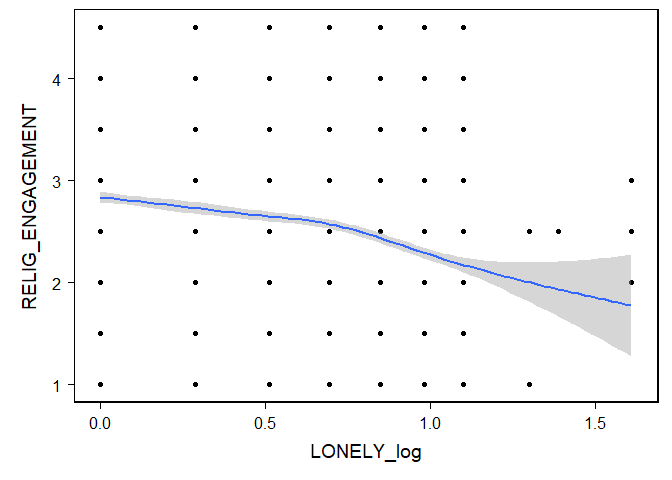
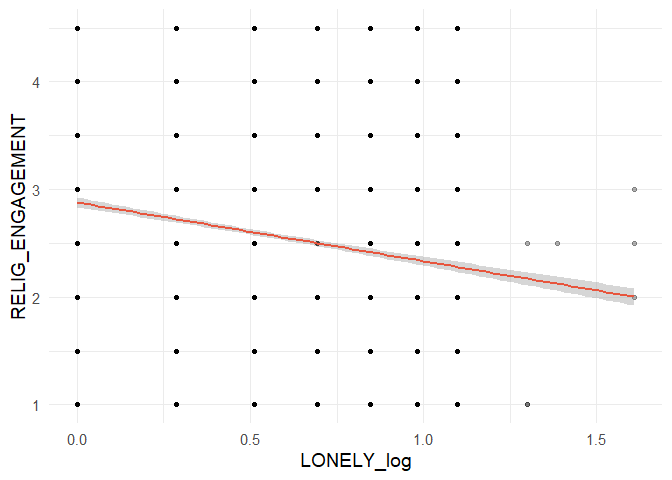
1

diff --git a/MyProject.md b/MyProject.md
@@ -11,7 +11,7 @@ library(dplyr)
 ```
 
     ## 
-    ## Attaching package: 'dplyr'
+    ## 载入程序包：'dplyr'
 
     ## The following objects are masked from 'package:stats':
     ## 
@@ -27,10 +27,10 @@ library(tidyr)
 library(car)
 ```
 
-    ## Loading required package: carData
+    ## 载入需要的程序包：carData
 
     ## 
-    ## Attaching package: 'car'
+    ## 载入程序包：'car'
 
     ## The following object is masked from 'package:dplyr':
     ## 
@@ -42,7 +42,7 @@ library(boot)
 ```
 
     ## 
-    ## Attaching package: 'boot'
+    ## 载入程序包：'boot'
 
     ## The following object is masked from 'package:car':
     ## 
@@ -82,13 +82,13 @@ library(bruceR)
 
     ## 
     ## These packages are dependencies of `bruceR` but not installed:
-    ## - pacman, openxlsx, ggtext, lmtest, vars, phia, MuMIn, GGally
+    ## - pacman, openxlsx, ggtext, see, lmtest, vars, phia, MuMIn, GGally
     ## 
     ## ***** Install all dependencies *****
     ## install.packages("bruceR", dep=TRUE)
 
 ``` r
-load("C:/Users/User/Downloads/ICPSR_38964-V2/ICPSR_38964/DS0001/38964-0001-Data.rda")
+load("C:/Users/zhang/OneDrive/2024-25/PSY329/ICPSR_38964-V2/ICPSR_38964/DS0001/38964-0001-Data.rda")
 dataset <- da38964.0001
 rm(da38964.0001)
 ```
@@ -330,15 +330,23 @@ PROCESS(my_dataset, y = "LONELY_log", x = "RELIG_ENGAGEMENT", mods = c("RACEREC"
 # Visualize the Results
 
 ``` r
-ggplot(cor_data, aes(x = LONELY_log, y = RELIG_ENGAGEMENT)) + geom_point() + geom_smooth() + theme_bruce()
+ggplot(cor_data, aes(x = LONELY_log, y = RELIG_ENGAGEMENT)) + geom_point(alpha = .3) + geom_smooth(method = "lm", se = TRUE, linetype = "solid", color = "#e7553d") +  theme_minimal(base_size = 14)
 ```
 
-    ## `geom_smooth()` using method = 'gam' and formula = 'y ~ s(x, bs = "cs")'
+    ## `geom_smooth()` using formula = 'y ~ x'
 
 ![](MyProject_files/figure-gfm/unnamed-chunk-7-1.png)<!-- -->
 
 ``` r
-ggplot(cor_data, aes(x = LONELY_log, y = RELIG_ENGAGEMENT)) + geom_point() + geom_smooth(method = "lm") + theme_bruce() + facet_wrap(~RACEREC)
+ggplot(data = cor_data, aes(x = LONELY_log, y = RELIG_ENGAGEMENT)) +
+  geom_point(alpha = .3) +
+  geom_smooth(method = "lm", se = TRUE, linetype = "solid", color = "#e7553d") +
+  facet_wrap(~RACEREC) +
+  labs(title = "Correlation between Religious Engagement and Loneliness",
+       subtitle = "Faceted by Race/Ethnicity",
+       x = "Log-transformed Loneliness", 
+       y = "Religious Engagement") +
+  theme_minimal(base_size = 14)
 ```
 
     ## `geom_smooth()` using formula = 'y ~ x'
@@ -598,3 +606,281 @@ PROCESS(my_dataset, y = "LONELY_sqrt", x = "RELIG_ENGAGEMENT", mods = c("EDUC"))
     ##  (5) Bachelor's degree                                         -0.030 (0.005) -5.939 <.001 *** [-0.040, -0.020]
     ##  (6) Post-Bachelor's degree (e.g., Masters, Doctorate, MD, JD) -0.035 (0.007) -4.696 <.001 *** [-0.050, -0.020]
     ## ───────────────────────────────────────────────────────────────────────────────────────────────────────────────
+
+``` r
+model_main <- lm(LONELY_log ~ RELIG_ENGAGEMENT + RACEREC, data = my_dataset)
+summary(model_main)
+```
+
+    ## 
+    ## Call:
+    ## lm(formula = LONELY_log ~ RELIG_ENGAGEMENT + RACEREC, data = my_dataset)
+    ## 
+    ## Residuals:
+    ##      Min       1Q   Median       3Q      Max 
+    ## -0.66934 -0.30696  0.06468  0.27180  1.10511 
+    ## 
+    ## Coefficients:
+    ##                                                         Estimate Std. Error
+    ## (Intercept)                                             0.665353   0.010424
+    ## RELIG_ENGAGEMENT                                       -0.052973   0.003535
+    ## RACEREC(02) Non-Hispanic Black                         -0.002111   0.012321
+    ## RACEREC(03) Non-Hispanic American Indian/Alaska Native  0.001598   0.036214
+    ## RACEREC(04) Hispanic                                    0.016091   0.011140
+    ## RACEREC(05) Non-Hispanic Asian or Pacific Islander     -0.017741   0.019103
+    ## RACEREC(06) Other and 2 or more races                   0.056956   0.039112
+    ## RACEREC(98) Don't know                                  0.114225   0.181792
+    ##                                                        t value Pr(>|t|)    
+    ## (Intercept)                                             63.828   <2e-16 ***
+    ## RELIG_ENGAGEMENT                                       -14.986   <2e-16 ***
+    ## RACEREC(02) Non-Hispanic Black                          -0.171    0.864    
+    ## RACEREC(03) Non-Hispanic American Indian/Alaska Native   0.044    0.965    
+    ## RACEREC(04) Hispanic                                     1.445    0.149    
+    ## RACEREC(05) Non-Hispanic Asian or Pacific Islander      -0.929    0.353    
+    ## RACEREC(06) Other and 2 or more races                    1.456    0.145    
+    ## RACEREC(98) Don't know                                   0.628    0.530    
+    ## ---
+    ## Signif. codes:  0 '***' 0.001 '**' 0.01 '*' 0.05 '.' 0.1 ' ' 1
+    ## 
+    ## Residual standard error: 0.3634 on 7636 degrees of freedom
+    ## Multiple R-squared:  0.02969,    Adjusted R-squared:  0.0288 
+    ## F-statistic: 33.38 on 7 and 7636 DF,  p-value: < 2.2e-16
+
+``` r
+model_interaction <- lm(LONELY_log ~ RELIG_ENGAGEMENT * RACEREC, data = my_dataset)
+summary(model_interaction)
+```
+
+    ## 
+    ## Call:
+    ## lm(formula = LONELY_log ~ RELIG_ENGAGEMENT * RACEREC, data = my_dataset)
+    ## 
+    ## Residuals:
+    ##     Min      1Q  Median      3Q     Max 
+    ## -0.7426 -0.3010  0.0614  0.2716  1.1043 
+    ## 
+    ## Coefficients:
+    ##                                                                          Estimate
+    ## (Intercept)                                                              0.672285
+    ## RELIG_ENGAGEMENT                                                        -0.055715
+    ## RACEREC(02) Non-Hispanic Black                                          -0.030793
+    ## RACEREC(03) Non-Hispanic American Indian/Alaska Native                   0.158484
+    ## RACEREC(04) Hispanic                                                     0.026763
+    ## RACEREC(05) Non-Hispanic Asian or Pacific Islander                      -0.185142
+    ## RACEREC(06) Other and 2 or more races                                    0.170578
+    ## RACEREC(98) Don't know                                                  -0.289741
+    ## RELIG_ENGAGEMENT:RACEREC(02) Non-Hispanic Black                          0.010255
+    ## RELIG_ENGAGEMENT:RACEREC(03) Non-Hispanic American Indian/Alaska Native -0.058392
+    ## RELIG_ENGAGEMENT:RACEREC(04) Hispanic                                   -0.004087
+    ## RELIG_ENGAGEMENT:RACEREC(05) Non-Hispanic Asian or Pacific Islander      0.066283
+    ## RELIG_ENGAGEMENT:RACEREC(06) Other and 2 or more races                  -0.044512
+    ## RELIG_ENGAGEMENT:RACEREC(98) Don't know                                  0.153993
+    ##                                                                         Std. Error
+    ## (Intercept)                                                               0.012463
+    ## RELIG_ENGAGEMENT                                                          0.004451
+    ## RACEREC(02) Non-Hispanic Black                                            0.033491
+    ## RACEREC(03) Non-Hispanic American Indian/Alaska Native                    0.094431
+    ## RACEREC(04) Hispanic                                                      0.027081
+    ## RACEREC(05) Non-Hispanic Asian or Pacific Islander                        0.045425
+    ## RACEREC(06) Other and 2 or more races                                     0.089593
+    ## RACEREC(98) Don't know                                                    0.424047
+    ## RELIG_ENGAGEMENT:RACEREC(02) Non-Hispanic Black                           0.010984
+    ## RELIG_ENGAGEMENT:RACEREC(03) Non-Hispanic American Indian/Alaska Native   0.032587
+    ## RELIG_ENGAGEMENT:RACEREC(04) Hispanic                                     0.009619
+    ## RELIG_ENGAGEMENT:RACEREC(05) Non-Hispanic Asian or Pacific Islander       0.016323
+    ## RELIG_ENGAGEMENT:RACEREC(06) Other and 2 or more races                    0.031611
+    ## RELIG_ENGAGEMENT:RACEREC(98) Don't know                                   0.145990
+    ##                                                                         t value
+    ## (Intercept)                                                              53.941
+    ## RELIG_ENGAGEMENT                                                        -12.517
+    ## RACEREC(02) Non-Hispanic Black                                           -0.919
+    ## RACEREC(03) Non-Hispanic American Indian/Alaska Native                    1.678
+    ## RACEREC(04) Hispanic                                                      0.988
+    ## RACEREC(05) Non-Hispanic Asian or Pacific Islander                       -4.076
+    ## RACEREC(06) Other and 2 or more races                                     1.904
+    ## RACEREC(98) Don't know                                                   -0.683
+    ## RELIG_ENGAGEMENT:RACEREC(02) Non-Hispanic Black                           0.934
+    ## RELIG_ENGAGEMENT:RACEREC(03) Non-Hispanic American Indian/Alaska Native  -1.792
+    ## RELIG_ENGAGEMENT:RACEREC(04) Hispanic                                    -0.425
+    ## RELIG_ENGAGEMENT:RACEREC(05) Non-Hispanic Asian or Pacific Islander       4.061
+    ## RELIG_ENGAGEMENT:RACEREC(06) Other and 2 or more races                   -1.408
+    ## RELIG_ENGAGEMENT:RACEREC(98) Don't know                                   1.055
+    ##                                                                         Pr(>|t|)
+    ## (Intercept)                                                              < 2e-16
+    ## RELIG_ENGAGEMENT                                                         < 2e-16
+    ## RACEREC(02) Non-Hispanic Black                                            0.3579
+    ## RACEREC(03) Non-Hispanic American Indian/Alaska Native                    0.0933
+    ## RACEREC(04) Hispanic                                                      0.3231
+    ## RACEREC(05) Non-Hispanic Asian or Pacific Islander                      4.63e-05
+    ## RACEREC(06) Other and 2 or more races                                     0.0570
+    ## RACEREC(98) Don't know                                                    0.4945
+    ## RELIG_ENGAGEMENT:RACEREC(02) Non-Hispanic Black                           0.3505
+    ## RELIG_ENGAGEMENT:RACEREC(03) Non-Hispanic American Indian/Alaska Native   0.0732
+    ## RELIG_ENGAGEMENT:RACEREC(04) Hispanic                                     0.6709
+    ## RELIG_ENGAGEMENT:RACEREC(05) Non-Hispanic Asian or Pacific Islander     4.94e-05
+    ## RELIG_ENGAGEMENT:RACEREC(06) Other and 2 or more races                    0.1591
+    ## RELIG_ENGAGEMENT:RACEREC(98) Don't know                                   0.2915
+    ##                                                                            
+    ## (Intercept)                                                             ***
+    ## RELIG_ENGAGEMENT                                                        ***
+    ## RACEREC(02) Non-Hispanic Black                                             
+    ## RACEREC(03) Non-Hispanic American Indian/Alaska Native                  .  
+    ## RACEREC(04) Hispanic                                                       
+    ## RACEREC(05) Non-Hispanic Asian or Pacific Islander                      ***
+    ## RACEREC(06) Other and 2 or more races                                   .  
+    ## RACEREC(98) Don't know                                                     
+    ## RELIG_ENGAGEMENT:RACEREC(02) Non-Hispanic Black                            
+    ## RELIG_ENGAGEMENT:RACEREC(03) Non-Hispanic American Indian/Alaska Native .  
+    ## RELIG_ENGAGEMENT:RACEREC(04) Hispanic                                      
+    ## RELIG_ENGAGEMENT:RACEREC(05) Non-Hispanic Asian or Pacific Islander     ***
+    ## RELIG_ENGAGEMENT:RACEREC(06) Other and 2 or more races                     
+    ## RELIG_ENGAGEMENT:RACEREC(98) Don't know                                    
+    ## ---
+    ## Signif. codes:  0 '***' 0.001 '**' 0.01 '*' 0.05 '.' 0.1 ' ' 1
+    ## 
+    ## Residual standard error: 0.363 on 7630 degrees of freedom
+    ## Multiple R-squared:  0.03285,    Adjusted R-squared:  0.0312 
+    ## F-statistic: 19.93 on 13 and 7630 DF,  p-value: < 2.2e-16
+
+``` r
+model_control <- lm(LONELY_log ~ RELIG_ENGAGEMENT * RACEREC + EDUC, data = my_dataset)
+summary(model_control)
+```
+
+    ## 
+    ## Call:
+    ## lm(formula = LONELY_log ~ RELIG_ENGAGEMENT * RACEREC + EDUC, 
+    ##     data = my_dataset)
+    ## 
+    ## Residuals:
+    ##      Min       1Q   Median       3Q      Max 
+    ## -0.72533 -0.31748  0.05499  0.28475  1.13585 
+    ## 
+    ## Coefficients:
+    ##                                                                          Estimate
+    ## (Intercept)                                                              0.755354
+    ## RELIG_ENGAGEMENT                                                        -0.051126
+    ## RACEREC(02) Non-Hispanic Black                                          -0.037562
+    ## RACEREC(03) Non-Hispanic American Indian/Alaska Native                   0.143561
+    ## RACEREC(04) Hispanic                                                     0.021535
+    ## RACEREC(05) Non-Hispanic Asian or Pacific Islander                      -0.151542
+    ## RACEREC(06) Other and 2 or more races                                    0.170129
+    ## RACEREC(98) Don't know                                                  -0.283601
+    ## EDUC(2) High school diploma or GED                                      -0.073501
+    ## EDUC(3) Attended college but did not complete a degree                  -0.070947
+    ## EDUC(4) Associate degree                                                -0.101312
+    ## EDUC(5) Bachelor's degree                                               -0.151239
+    ## EDUC(6) Post-Bachelor's degree (e.g., Masters, Doctorate, MD, JD)       -0.153952
+    ## RELIG_ENGAGEMENT:RACEREC(02) Non-Hispanic Black                          0.010204
+    ## RELIG_ENGAGEMENT:RACEREC(03) Non-Hispanic American Indian/Alaska Native -0.058467
+    ## RELIG_ENGAGEMENT:RACEREC(04) Hispanic                                   -0.004339
+    ## RELIG_ENGAGEMENT:RACEREC(05) Non-Hispanic Asian or Pacific Islander      0.062999
+    ## RELIG_ENGAGEMENT:RACEREC(06) Other and 2 or more races                  -0.047715
+    ## RELIG_ENGAGEMENT:RACEREC(98) Don't know                                  0.163524
+    ##                                                                         Std. Error
+    ## (Intercept)                                                               0.021881
+    ## RELIG_ENGAGEMENT                                                          0.004466
+    ## RACEREC(02) Non-Hispanic Black                                            0.033338
+    ## RACEREC(03) Non-Hispanic American Indian/Alaska Native                    0.093935
+    ## RACEREC(04) Hispanic                                                      0.026949
+    ## RACEREC(05) Non-Hispanic Asian or Pacific Islander                        0.045340
+    ## RACEREC(06) Other and 2 or more races                                     0.089181
+    ## RACEREC(98) Don't know                                                    0.421944
+    ## EDUC(2) High school diploma or GED                                        0.020083
+    ## EDUC(3) Attended college but did not complete a degree                    0.020562
+    ## EDUC(4) Associate degree                                                  0.021981
+    ## EDUC(5) Bachelor's degree                                                 0.021161
+    ## EDUC(6) Post-Bachelor's degree (e.g., Masters, Doctorate, MD, JD)         0.023694
+    ## RELIG_ENGAGEMENT:RACEREC(02) Non-Hispanic Black                           0.010934
+    ## RELIG_ENGAGEMENT:RACEREC(03) Non-Hispanic American Indian/Alaska Native   0.032413
+    ## RELIG_ENGAGEMENT:RACEREC(04) Hispanic                                     0.009573
+    ## RELIG_ENGAGEMENT:RACEREC(05) Non-Hispanic Asian or Pacific Islander       0.016242
+    ## RELIG_ENGAGEMENT:RACEREC(06) Other and 2 or more races                    0.031458
+    ## RELIG_ENGAGEMENT:RACEREC(98) Don't know                                   0.145246
+    ##                                                                         t value
+    ## (Intercept)                                                              34.521
+    ## RELIG_ENGAGEMENT                                                        -11.447
+    ## RACEREC(02) Non-Hispanic Black                                           -1.127
+    ## RACEREC(03) Non-Hispanic American Indian/Alaska Native                    1.528
+    ## RACEREC(04) Hispanic                                                      0.799
+    ## RACEREC(05) Non-Hispanic Asian or Pacific Islander                       -3.342
+    ## RACEREC(06) Other and 2 or more races                                     1.908
+    ## RACEREC(98) Don't know                                                   -0.672
+    ## EDUC(2) High school diploma or GED                                       -3.660
+    ## EDUC(3) Attended college but did not complete a degree                   -3.450
+    ## EDUC(4) Associate degree                                                 -4.609
+    ## EDUC(5) Bachelor's degree                                                -7.147
+    ## EDUC(6) Post-Bachelor's degree (e.g., Masters, Doctorate, MD, JD)        -6.497
+    ## RELIG_ENGAGEMENT:RACEREC(02) Non-Hispanic Black                           0.933
+    ## RELIG_ENGAGEMENT:RACEREC(03) Non-Hispanic American Indian/Alaska Native  -1.804
+    ## RELIG_ENGAGEMENT:RACEREC(04) Hispanic                                    -0.453
+    ## RELIG_ENGAGEMENT:RACEREC(05) Non-Hispanic Asian or Pacific Islander       3.879
+    ## RELIG_ENGAGEMENT:RACEREC(06) Other and 2 or more races                   -1.517
+    ## RELIG_ENGAGEMENT:RACEREC(98) Don't know                                   1.126
+    ##                                                                         Pr(>|t|)
+    ## (Intercept)                                                              < 2e-16
+    ## RELIG_ENGAGEMENT                                                         < 2e-16
+    ## RACEREC(02) Non-Hispanic Black                                          0.259894
+    ## RACEREC(03) Non-Hispanic American Indian/Alaska Native                  0.126478
+    ## RACEREC(04) Hispanic                                                    0.424257
+    ## RACEREC(05) Non-Hispanic Asian or Pacific Islander                      0.000835
+    ## RACEREC(06) Other and 2 or more races                                   0.056470
+    ## RACEREC(98) Don't know                                                  0.501523
+    ## EDUC(2) High school diploma or GED                                      0.000254
+    ## EDUC(3) Attended college but did not complete a degree                  0.000563
+    ## EDUC(4) Associate degree                                                4.11e-06
+    ## EDUC(5) Bachelor's degree                                               9.69e-13
+    ## EDUC(6) Post-Bachelor's degree (e.g., Masters, Doctorate, MD, JD)       8.68e-11
+    ## RELIG_ENGAGEMENT:RACEREC(02) Non-Hispanic Black                         0.350752
+    ## RELIG_ENGAGEMENT:RACEREC(03) Non-Hispanic American Indian/Alaska Native 0.071298
+    ## RELIG_ENGAGEMENT:RACEREC(04) Hispanic                                   0.650357
+    ## RELIG_ENGAGEMENT:RACEREC(05) Non-Hispanic Asian or Pacific Islander     0.000106
+    ## RELIG_ENGAGEMENT:RACEREC(06) Other and 2 or more races                  0.129365
+    ## RELIG_ENGAGEMENT:RACEREC(98) Don't know                                 0.260268
+    ##                                                                            
+    ## (Intercept)                                                             ***
+    ## RELIG_ENGAGEMENT                                                        ***
+    ## RACEREC(02) Non-Hispanic Black                                             
+    ## RACEREC(03) Non-Hispanic American Indian/Alaska Native                     
+    ## RACEREC(04) Hispanic                                                       
+    ## RACEREC(05) Non-Hispanic Asian or Pacific Islander                      ***
+    ## RACEREC(06) Other and 2 or more races                                   .  
+    ## RACEREC(98) Don't know                                                     
+    ## EDUC(2) High school diploma or GED                                      ***
+    ## EDUC(3) Attended college but did not complete a degree                  ***
+    ## EDUC(4) Associate degree                                                ***
+    ## EDUC(5) Bachelor's degree                                               ***
+    ## EDUC(6) Post-Bachelor's degree (e.g., Masters, Doctorate, MD, JD)       ***
+    ## RELIG_ENGAGEMENT:RACEREC(02) Non-Hispanic Black                            
+    ## RELIG_ENGAGEMENT:RACEREC(03) Non-Hispanic American Indian/Alaska Native .  
+    ## RELIG_ENGAGEMENT:RACEREC(04) Hispanic                                      
+    ## RELIG_ENGAGEMENT:RACEREC(05) Non-Hispanic Asian or Pacific Islander     ***
+    ## RELIG_ENGAGEMENT:RACEREC(06) Other and 2 or more races                     
+    ## RELIG_ENGAGEMENT:RACEREC(98) Don't know                                    
+    ## ---
+    ## Signif. codes:  0 '***' 0.001 '**' 0.01 '*' 0.05 '.' 0.1 ' ' 1
+    ## 
+    ## Residual standard error: 0.361 on 7625 degrees of freedom
+    ## Multiple R-squared:  0.04409,    Adjusted R-squared:  0.04183 
+    ## F-statistic: 19.54 on 18 and 7625 DF,  p-value: < 2.2e-16
+
+``` r
+# Residual plot for homoscedasticity
+plot(model_control, which = 1)
+```
+
+![](MyProject_files/figure-gfm/unnamed-chunk-10-1.png)<!-- -->
+
+``` r
+# Q-Q plot for normality of residuals
+plot(model_control, which = 2)
+```
+
+![](MyProject_files/figure-gfm/unnamed-chunk-10-2.png)<!-- -->
+
+``` r
+library(interactions)
+interact_plot(model_control, pred = RELIG_ENGAGEMENT, modx = RACEREC, interval = TRUE)
+```
+
+![](MyProject_files/figure-gfm/unnamed-chunk-10-3.png)<!-- -->
